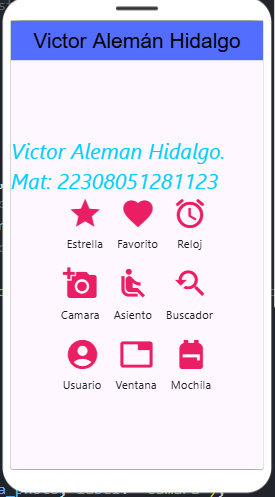
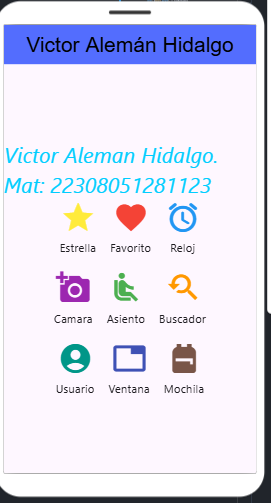
Actualizacion

Changed region(s): [[0.0, 0.0, 1.0, 1.0], [0.2066, 0.5433, 0.5609, 0.7847], [0.5904, 0.5433, 0.7675, 0.7847]]

diff --git a/lib/main.dart b/lib/main.dart
@@ -34,12 +34,20 @@ class MisIconos extends StatelessWidget {
                 mainAxisAlignment:
                     MainAxisAlignment.center, // Centra los iconos en la fila
                 children: <Widget>[
-                  IconWithLabel(icon: Icons.star, label: 'Estrella'),
-                  SizedBox(width: 20.0), // Espacio entre los iconos
-                  IconWithLabel(icon: Icons.favorite, label: 'Favorito'),
+                  IconWithLabel(
+                      icon: Icons.star,
+                      label: 'Estrella',
+                      color: Colors.yellow),
                   SizedBox(width: 20.0), // Espacio entre los iconos
                   IconWithLabel(
-                      icon: Icons.access_alarm_rounded, label: 'Reloj'),
+                      icon: Icons.favorite,
+                      label: 'Favorito',
+                      color: Colors.red),
+                  SizedBox(width: 20.0), // Espacio entre los iconos
+                  IconWithLabel(
+                      icon: Icons.access_alarm_rounded,
+                      label: 'Reloj',
+                      color: Colors.blue),
                 ],
               ),
               SizedBox(height: 20.0), // Espacio entre las filas
@@ -48,14 +56,20 @@ class MisIconos extends StatelessWidget {
                 mainAxisAlignment:
                     MainAxisAlignment.center, // Centra los iconos en la fila
                 children: <Widget>[
-                  IconWithLabel(icon: Icons.add_a_photo, label: 'Camara'),
+                  IconWithLabel2(
+                      icon: Icons.add_a_photo,
+                      label: 'Camara',
+                      color: Colors.purple),
                   SizedBox(width: 20.0), // Espacio entre los iconos
-                  IconWithLabel(
+                  IconWithLabel2(
                       icon: Icons.airline_seat_recline_normal,
-                      label: 'Asiento'),
+                      label: 'Asiento',
+                      color: Colors.green),
                   SizedBox(width: 20.0), // Espacio entre los iconos
-                  IconWithLabel(
-                      icon: Icons.youtube_searched_for, label: 'Buscador'),
+                  IconWithLabel2(
+                      icon: Icons.youtube_searched_for,
+                      label: 'Buscador',
+                      color: Colors.orange),
                 ],
               ),
               SizedBox(height: 20.0), // Espacio entre las filas
@@ -64,11 +78,20 @@ class MisIconos extends StatelessWidget {
                 mainAxisAlignment:
                     MainAxisAlignment.center, // Centra los iconos en la fila
                 children: <Widget>[
-                  IconWithLabel(icon: Icons.account_circle, label: 'Usuario'),
+                  IconWithLabel(
+                      icon: Icons.account_circle,
+                      label: 'Usuario',
+                      color: Colors.teal),
                   SizedBox(width: 20.0), // Espacio entre los iconos
-                  IconWithLabel(icon: Icons.tab_outlined, label: 'Ventana'),
+                  IconWithLabel(
+                      icon: Icons.tab_outlined,
+                      label: 'Ventana',
+                      color: Colors.indigo),
                   SizedBox(width: 20.0), // Espacio entre los iconos
-                  IconWithLabel(icon: Icons.backpack, label: 'Mochila'),
+                  IconWithLabel(
+                      icon: Icons.backpack,
+                      label: 'Mochila',
+                      color: Colors.brown),
                 ],
               ),
             ],
@@ -83,14 +106,37 @@ class MisIconos extends StatelessWidget {
 class IconWithLabel extends StatelessWidget {
   final IconData icon;
   final String label;
+  final Color color;
 
-  const IconWithLabel({required this.icon, required this.label});
+  const IconWithLabel(
+      {required this.icon, required this.label, required this.color});
 
   @override
   Widget build(BuildContext context) {
     return Column(
       children: <Widget>[
-        Icon(icon, size: 50.0, color: Colors.pink), // Icono
+        Icon(icon, size: 50.0, color: color), // Icono con color personalizado
+        const SizedBox(height: 8.0), // Espacio entre el icono y el texto
+        Text(label, style: const TextStyle(fontSize: 16.0)), // Subtítulo
+      ],
+    );
+  }
+}
+
+// Widget personalizado para un icono con subtítulo
+class IconWithLabel2 extends StatelessWidget {
+  final IconData icon;
+  final String label;
+  final Color color;
+
+  const IconWithLabel2(
+      {required this.icon, required this.label, required this.color});
+
+  @override
+  Widget build(BuildContext context) {
+    return Column(
+      children: <Widget>[
+        Icon(icon, size: 50.0, color: color), // Icono con color personalizado
         const SizedBox(height: 8.0), // Espacio entre el icono y el texto
         Text(label, style: const TextStyle(fontSize: 16.0)), // Subtítulo
       ],
